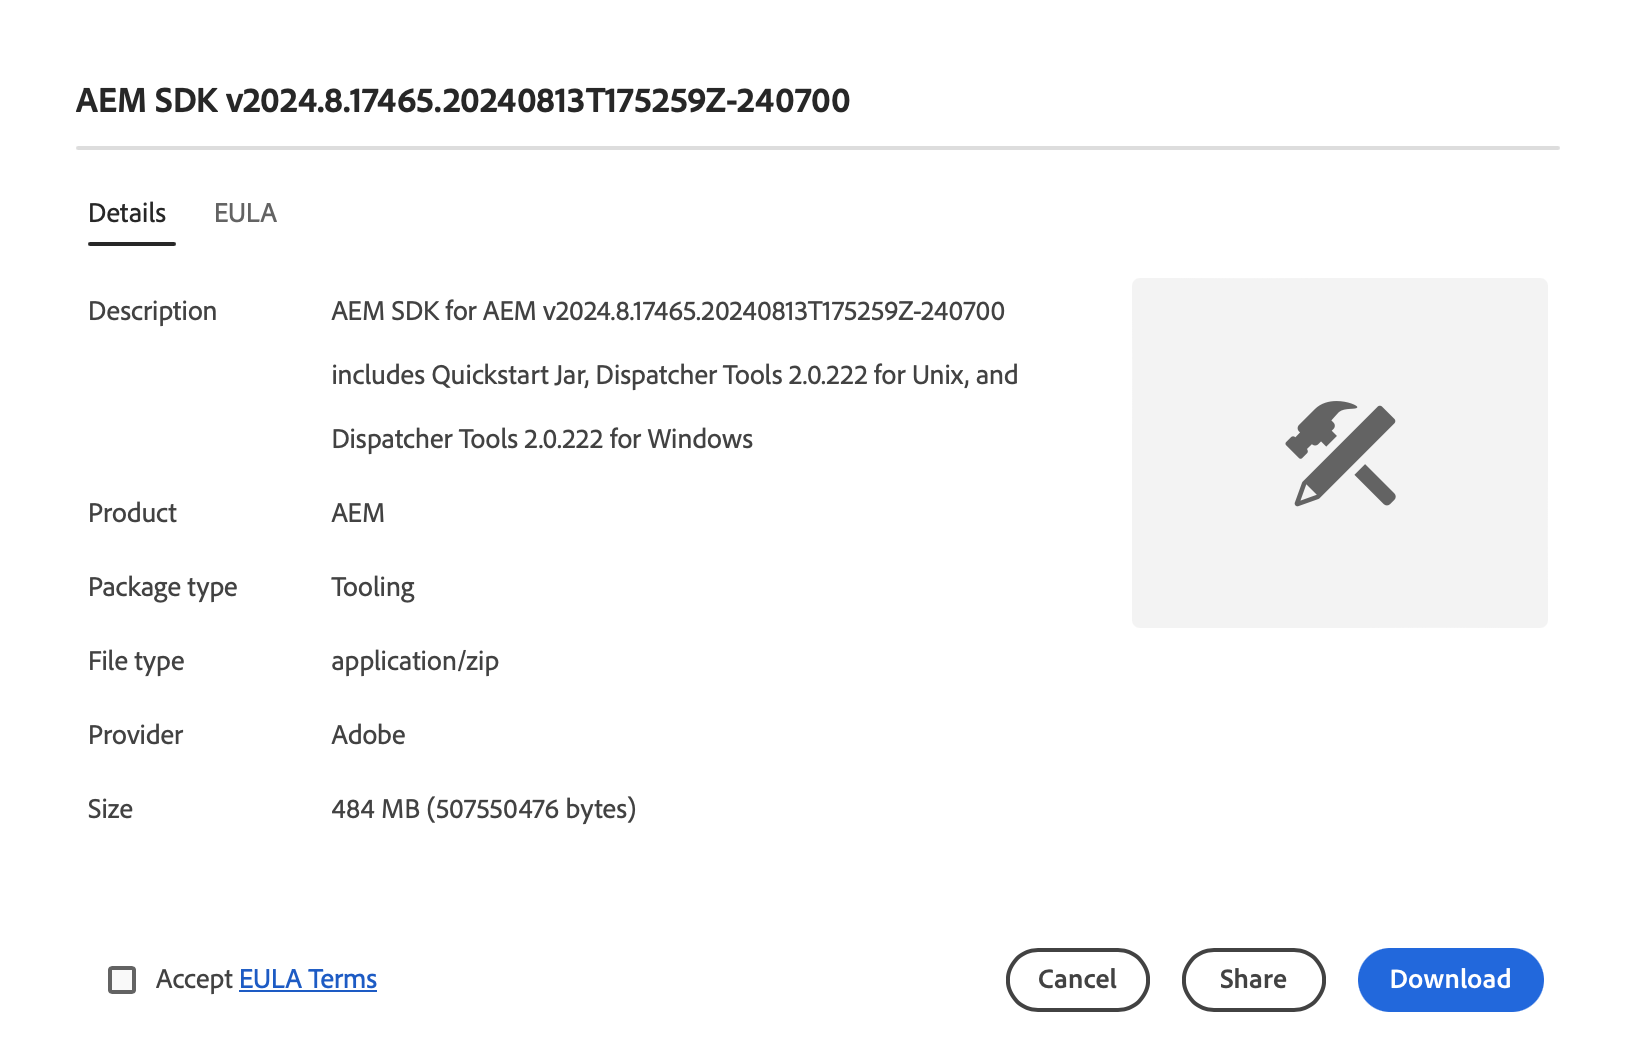
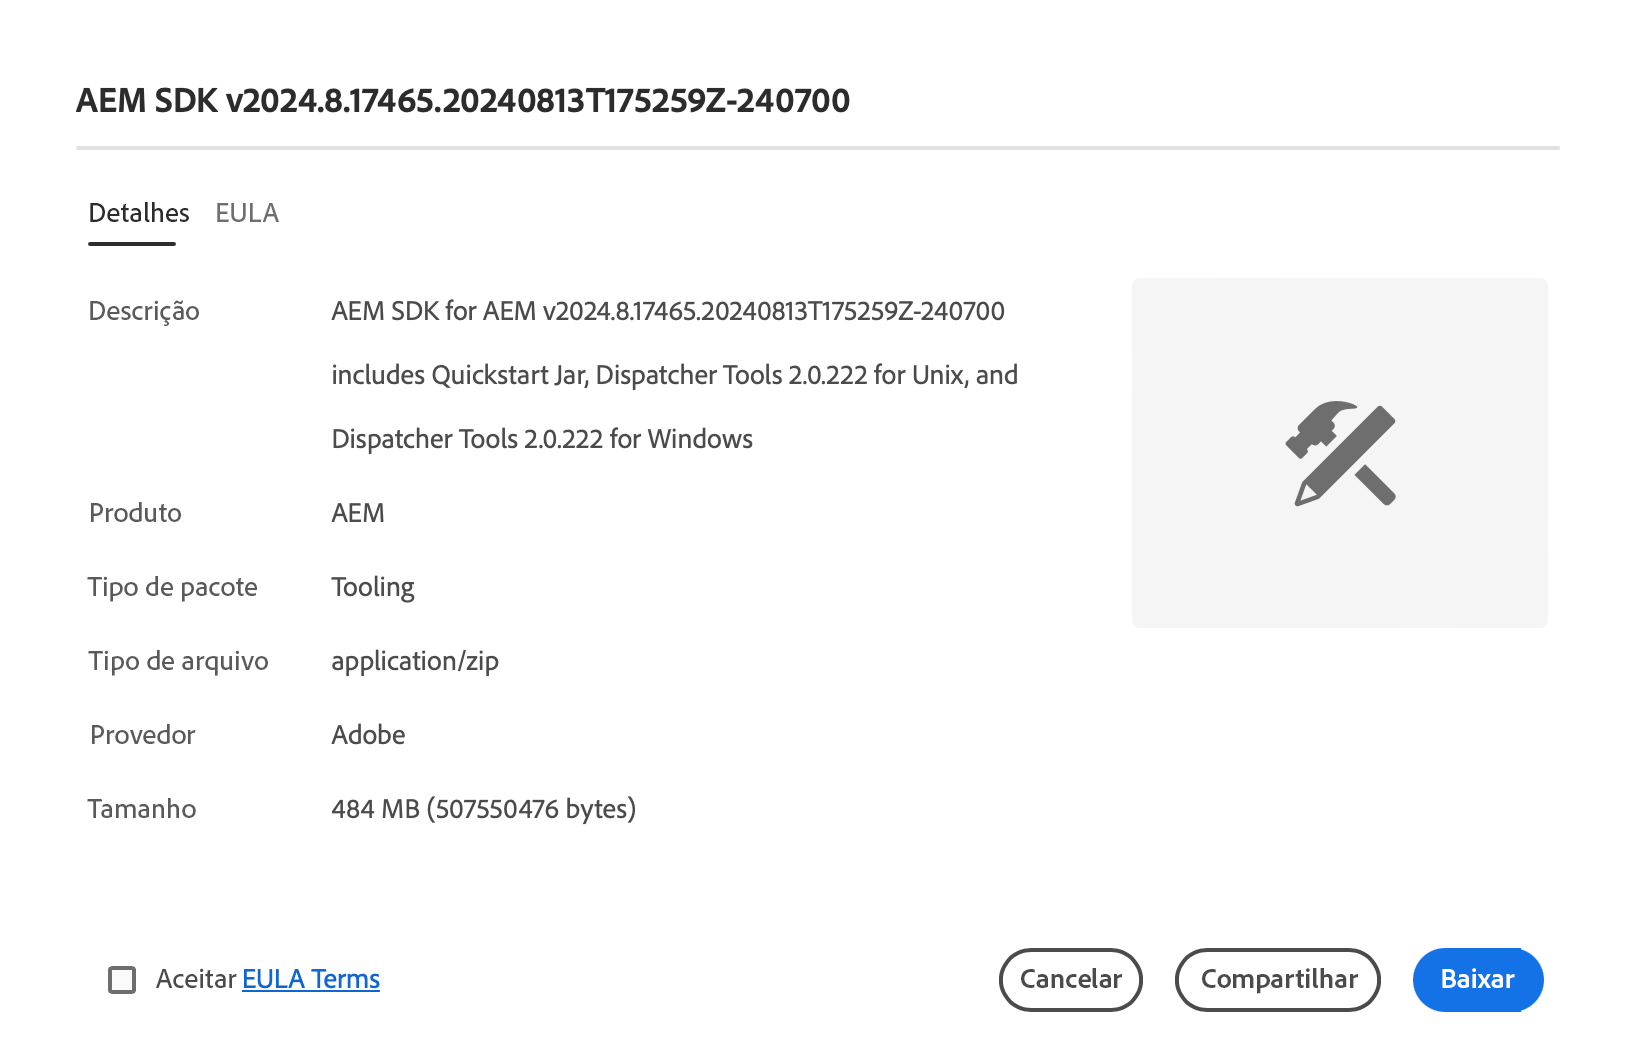
Updated by task 'AUTO_HANDOFF_1724428864251'  Changes for core/source commit https://git.corp.adobe.com/AdobeDocs/experience-cloud.en/commit/ab636c01910e4825bd9168c276b2fe14dead50a4

diff --git a/help/software-distribution/home.md b/help/software-distribution/home.md
@@ -1,50 +1,50 @@
 ---
-title: Distribuição do software
-description: Saiba como usar a Distribuição de software para baixar o software da Adobe Experience Cloud.
+title: Distribuição de software
+description: Saiba como usar a Distribuição de software para baixar software da Adobe Experience Cloud.
 exl-id: ac559a28-4444-4326-ba92-78afd10ed9ab
 source-git-commit: 6a2ba27cfeae875ab9184760b6d233ef759dd460
-workflow-type: tm+mt
+workflow-type: ht
 source-wordcount: '430'
-ht-degree: 9%
+ht-degree: 100%
 
 ---
 
 
-# Distribuição do software
+# Distribuição de software
 
-Saiba como usar a Distribuição de software para baixar o software da Adobe Experience Cloud.
+Saiba como usar a Distribuição de software para baixar software da Adobe Experience Cloud.
 
 ## Introdução
 
-A Distribuição de software oferece uma experiência eficiente para encontrar e baixar o software Adobe Experience Cloud. Pacotes de software aprovados do Adobe e pacotes de empresas parceiras estão disponíveis para os seguintes produtos:
+A Distribuição de software oferece uma experiência eficiente para encontrar e baixar software da Adobe Experience Cloud. Pacotes de software aprovados da Adobe e pacotes de empresas de parceiros agora estão disponíveis para os seguintes produtos:
 
-1. **Adobe Experience Manager** - Tudo relacionado ao serviço e manutenção, segurança, ferramentas e muito mais - para todas as versões de AEM com suporte
-1. **Adobe Experience Manager as a [!UICONTROL Cloud Service]** - [!UICONTROL SDK da nuvem do AEM], ferramentas de migração da [!UICONTROL nuvem do AEM] e muito mais
-1. **Adobe Campaign** - Todas as [!DNL Campaign] versões atuais do instalador e ferramentas relacionadas
-1. **Geral** - Ferramentas de uso geral, incluindo [!DNL Oracle] JDKs para clientes do Adobe
+1. **Adobe Experience Manager** - Tudo relacionado a serviço e manutenção, segurança, ferramentas e muito mais, para todas as versões do AEM compatíveis
+1. **Adobe Experience Manager as a [!UICONTROL Cloud Service]** - [!UICONTROL SDK da AEM Cloud], ferramentas de migração da [!UICONTROL AEM Cloud] e muito mais
+1. **Adobe Campaign** - Todas as versões atuais do instalador do [!DNL Campaign] e ferramentas relacionadas
+1. **Geral** - Ferramentas de uso geral, incluindo JDKs [!DNL Oracle] para clientes Adobe.
 
 O uso da Distribuição de software é simples como:
 
-1. [Acesso à Distribuição de software](#accessing)
-1. [Seleção do produto](#selecting)
-1. [Encontrar o download](#finding)
+1. [Acessar a Distribuição de software](#accessing)
+1. [Selecionar o produto](#selecting)
+1. [Localizar o download](#finding)
 1. [Download do software](#downloading)
 
 ## Acesso à Distribuição de software {#accessing}
 
-Para acessar a Distribuição de Software, vá para [`https://experience.adobe.com/downloads`](https://experience.adobe.com/downloads) e entre na [!UICONTROL Distribuição de Software] com sua Adobe ID.
+Para acessar a Distribuição de software, vá para [`https://experience.adobe.com/downloads`](https://experience.adobe.com/downloads) e faça logon na [!UICONTROL Distribuição do software] com a Adobe ID.
 
-## Seleção do produto {#selecting}
+## Selecionar o produto {#selecting}
 
-A interface de Distribuição de software é organizada por produto, conforme mostrado no menu.
+A interface da Distribuição de software é organizada por produto, conforme mostrado no menu.
 
 ![Menu organizado por produtos](assets/menu.png)
 
 Você acessa a guia **Geral**, onde pode encontrar downloads de software de uso geral.
 
-Toque ou clique no produto no menu para o qual deseja baixar o software. Somente os produtos licenciados por sua organização estão disponíveis para download.
+Toque ou clique no produto do menu para o qual deseja baixar o software. Somente os produtos licenciados por sua organização estão disponíveis para download.
 
-## Localizando o download {#finding}
+## Localizar o Download {#finding}
 
 Após selecionar a guia do produto desejado, você verá todos os downloads relacionados. Use os filtros de pesquisa no painel esquerdo para localizar rapidamente o download. As opções de filtro variam de acordo com o produto.
 
@@ -58,15 +58,15 @@ Ao tocar ou clicar em um download exibido, uma caixa de diálogo é aberta e for
 
 Você deve aceitar o EULA selecionando **Aceitar Termos do EULA** para habilitar o botão **Baixar**.
 
-Você também pode compartilhar um link para esse download específico tocando ou clicando em **Compartilhar** para copiar a URL.
+Você também pode compartilhar um link para esse download específico tocando ou clicando em **Compartilhar** para copiar o URL.
 
 ## Compartilhamento de pacotes {#package-share}
 
-Em junho de 2020, a [!UICONTROL Distribuição de software] substituiu o [!UICONTROL Compartilhamento de pacotes] para AEM e o [!DNL Neolane] para [!DNL Campaign]. Uma interface de usuário intuitiva, pesquisa simplificada e velocidade de download muito melhor tornam o download de pacotes de software para produtos Experience Cloud uma experiência melhor com o uso da Distribuição de software.
+Em junho de 2020, a [!UICONTROL Distribuição de software] substituiu o [!UICONTROL Compartilhamento de pacotes] para AEM e o [!DNL Neolane] para [!DNL Campaign]. A interface intuitiva, pesquisa simplificada e velocidade de download bastante aprimorada tornam o download de pacotes de software para produtos da Experience Cloud uma experiência melhor com a Distribuição de software.
 
 >[!IMPORTANT]
 >
->As credenciais de logon do [!UICONTROL Compartilhamento de Pacotes] ou [!DNL Neolane] não funcionarão para a [!UICONTROL Distribuição de Software], que fornece recursos para entrar com os padrões de segurança para todo o Adobe. Se você não souber sua Adobe ID, entre em contato com um administrador de suporte em sua organização.
+>As credenciais de logon do [!UICONTROL Compartilhamento de pacotes] ou da [!DNL Neolane] não funcionarão na [!UICONTROL Distribuição de software], que fornece recursos para fazer logon com os padrões de segurança da Adobe. Se você não souber sua Adobe ID, entre em contato com um admin de suporte em sua organização.
 
 >[!NOTE]
 >
